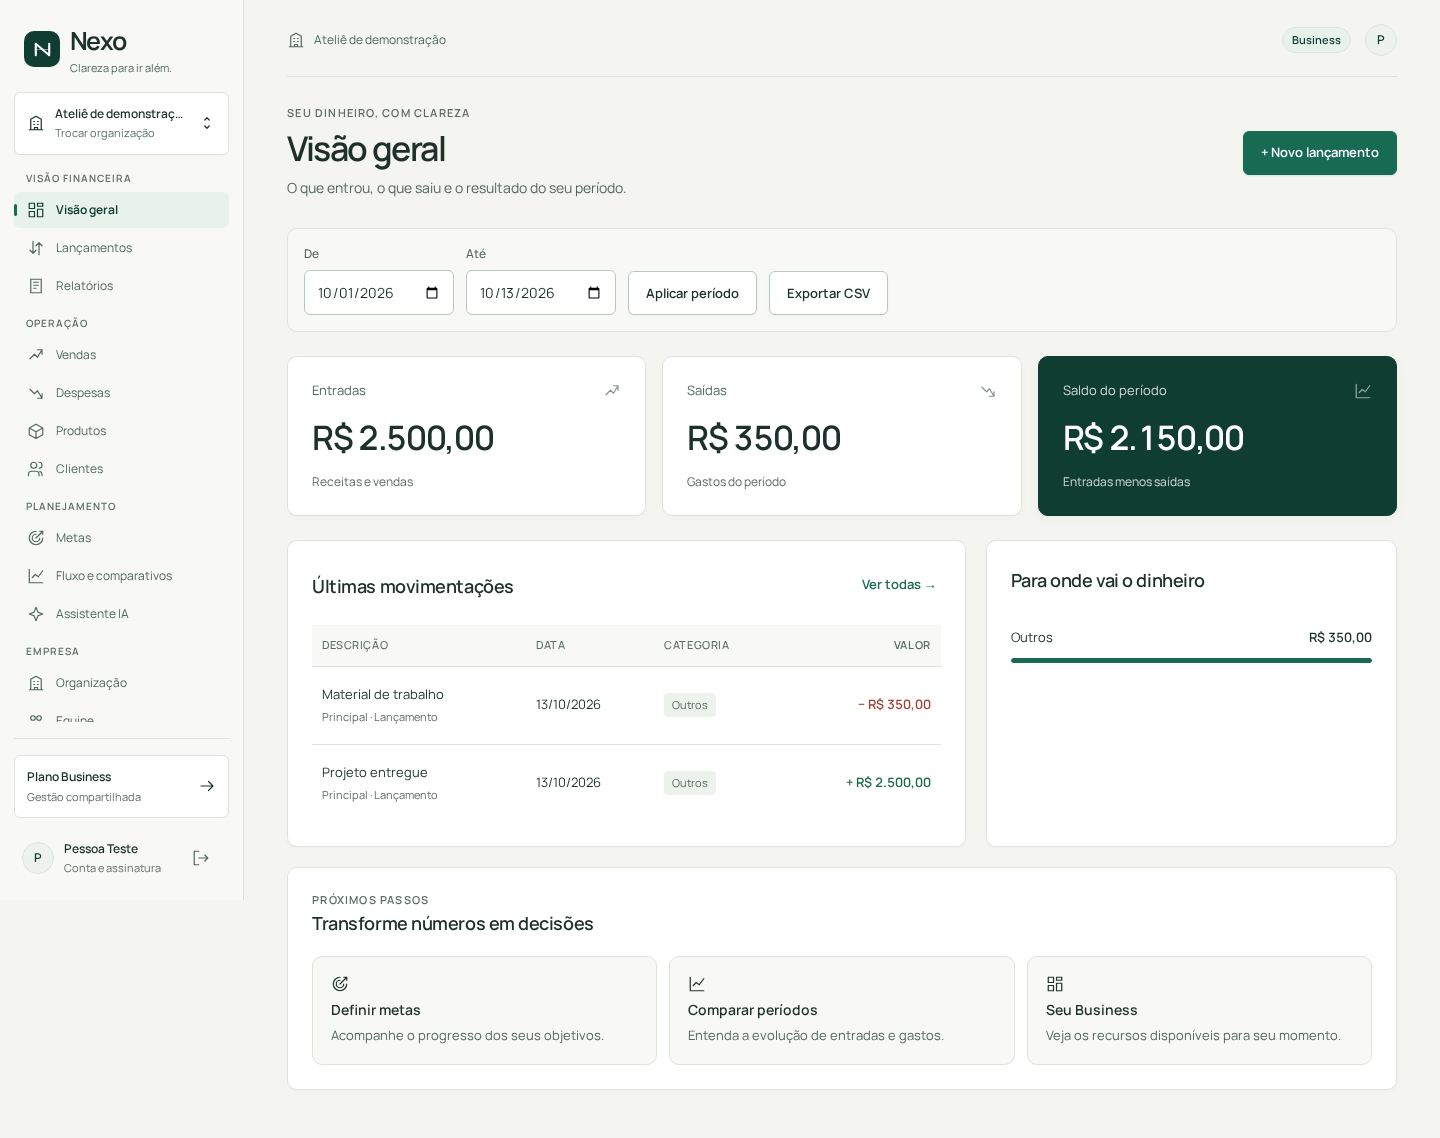
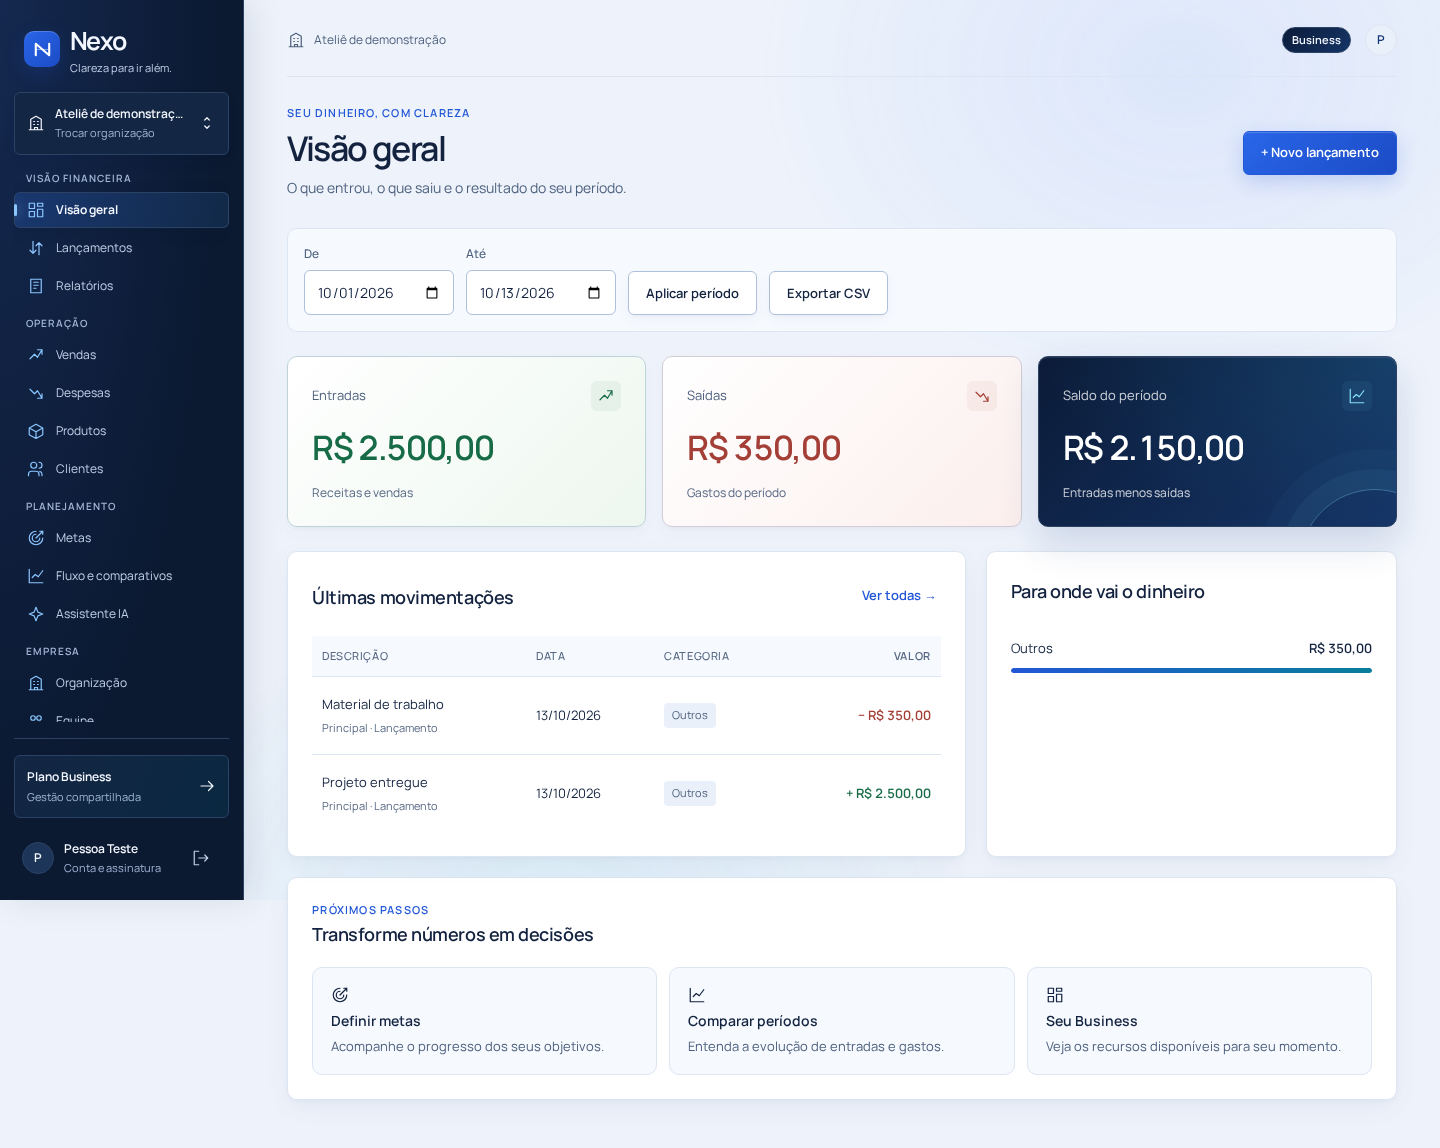
Finaliza polish AI-native e responsividade

diff --git a/frontend/components/Sidebar.tsx b/frontend/components/Sidebar.tsx
@@ -69,6 +69,7 @@ export function Sidebar(props: {
   const [aberto, setAberto] = useState(false);
   const [fechando, setFechando] = useState(false);
   const dialog = useRef<HTMLDialogElement>(null);
+  const desktop = useRef<HTMLElement>(null);
   const fecharTimer = useRef<ReturnType<typeof setTimeout> | null>(null);
   const toggle = useRef<HTMLButtonElement>(null);
 
@@ -108,6 +109,30 @@ export function Sidebar(props: {
       if (fecharTimer.current) clearTimeout(fecharTimer.current);
     };
   }, [aberto]);
+
+  useEffect(() => {
+    const menus = [desktop.current, aberto ? dialog.current : null]
+      .map((raiz) => raiz?.querySelector<HTMLElement>(".menu"))
+      .filter((menu): menu is HTMLElement => Boolean(menu));
+    const ajustar = () => {
+      for (const menu of menus) {
+        const atual = menu.querySelector<HTMLElement>('[aria-current="page"]');
+        if (!atual || !menu.clientHeight) continue;
+        const inicio =
+          atual.getBoundingClientRect().top -
+          menu.getBoundingClientRect().top +
+          menu.scrollTop;
+        const fim = inicio + atual.offsetHeight;
+        if (inicio < menu.scrollTop) menu.scrollTop = inicio;
+        else if (fim > menu.scrollTop + menu.clientHeight)
+          menu.scrollTop = fim - menu.clientHeight;
+      }
+    };
+    ajustar();
+    const observador = new ResizeObserver(ajustar);
+    menus.forEach((menu) => observador.observe(menu));
+    return () => observador.disconnect();
+  }, [pathname, aberto]);
 
   async function sair() {
     if (saindo) return;
@@ -267,7 +292,7 @@ export function Sidebar(props: {
           <Icone nome="menu" />
         </button>
       </div>
-      <aside className="sidebar">
+      <aside className="sidebar" ref={desktop}>
         <div className="sidebar-brand-row">{marca}</div>
         {navegacao}
       </aside>

diff --git a/frontend/tests/e2e/assinatura.spec.ts b/frontend/tests/e2e/assinatura.spec.ts
@@ -97,6 +97,10 @@ test("seis transições, persistência após reload e novo login", async ({
       page.locator('.sidebar a[href="/equipe"] .nav-lock'),
     ).toHaveCount(destino === "Business" ? 0 : 1);
     await page.locator(".workspace-bar .plan-pill").click();
+    await expect(page).toHaveURL(/\/conta\/assinatura$/);
+    await expect(
+      page.getByRole("heading", { name: destino, exact: true }),
+    ).toBeVisible();
     await page.reload();
     await expect(
       page.getByRole("heading", { name: destino, exact: true }),
@@ -540,6 +544,21 @@ test("finanças, Pro, Business, convite, documentos e downgrade preservam dados"
       ).toHaveCount(0);
       await semOverflow(page);
       await page.waitForTimeout(350);
+      if (largura > 900) {
+        const visivel = await page
+          .locator(".sidebar .menu")
+          .evaluate((menu) => {
+            const atual = menu.querySelector('[aria-current="page"]');
+            if (!atual) return true;
+            const area = menu.getBoundingClientRect(),
+              item = atual.getBoundingClientRect();
+            return item.top >= area.top - 1 && item.bottom <= area.bottom + 1;
+          });
+        expect(
+          visivel,
+          `Navegação ativa visível: ${rota} em ${largura}px`,
+        ).toBe(true);
+      }
       await page.screenshot({
         path: testInfo.outputPath(
           `${nome}-${rota.replaceAll("/", "") || "dashboard"}.png`,

diff --git a/docs/NEXO_AI_NATIVE.md b/docs/NEXO_AI_NATIVE.md
@@ -1,0 +1,114 @@
+# Nexo: assinatura em dev e identidade azul
+
+Etapa na branch `nexo-next-spring`, iniciada em `c6be20fc3b30c2fc0835d7e5d8f658f7ef75bf57`. O produto existente foi preservado: autenticação, recuperação, Resend, organizações, financeiro, regras dos planos e dados. Não houve deploy, merge, alteração de `main`, credenciais, migrations ou gateway real.
+
+## Por que aparecia “Troca indisponível”
+
+`PagamentoSimulado` exige perfil dev/test **e** a propriedade habilitada. O arquivo base usava `${PAGAMENTO_SIMULADO_ENABLED:false}` e não existia arquivo dev com outro padrão. Selecionar apenas dev mantinha o simulador ausente, e `PoliticaAssinatura` devolvia `simulacaoHabilitada=false`.
+
+A interface reunia esse caso e `podeGerenciar=false` em um único botão, sem explicar a diferença. A permissão de gerenciamento continua exclusiva do proprietário; administradores e membros não receberam acesso adicional.
+
+`application-dev.properties` agora habilita a simulação por padrão em dev. A flag false explícita continua desligando. A expressão `@Profile("(dev | test) & !prod & !production")` permaneceu: produção, inclusive combinada com dev/test e flag true, nunca cria o simulador. O startup informa somente habilitado/desabilitado, sem valores de configuração ou segredos.
+
+A API acrescenta `ambienteDesenvolvimento`. A interface distingue plano atual, permissão do proprietário, simulação desabilitada, checkout indisponível e erro de carregamento com nova tentativa. Orientação de variáveis só aparece em dev/test, sem produção ativa.
+
+## Como iniciar
+
+Com as variáveis do banco existente já configuradas, na raiz:
+
+```powershell
+$env:SPRING_PROFILES_ACTIVE = 'dev'
+mvn -f backend/pom.xml spring-boot:run
+```
+
+Ou em Bash:
+
+```bash
+SPRING_PROFILES_ACTIVE=dev mvn -f backend/pom.xml spring-boot:run
+```
+
+Em outro terminal:
+
+```bash
+cd frontend
+npm ci
+npm run dev
+```
+
+Não é necessário definir `PAGAMENTO_SIMULADO_ENABLED=true`. Se o terminal já tiver essa variável como false, remova-a para usar o padrão dev, ou defina true explicitamente. A raiz `.env` não é carregada automaticamente pelo Spring. Em test a flag continua explícita. Veja [DEVELOPMENT.md](../DEVELOPMENT.md).
+
+## Como testar os planos
+
+Entre como proprietário, abra **Planos**, escolha o destino, confira resumo/preço e confirme o cenário **Aprovado**. Downgrade exige o consentimento sobre limites e recursos. O plano atual não abre checkout.
+
+| Origem | Destino | Ação | Total simulado |
+| --- | --- | --- | --- |
+| Free | Pro | Upgrade | R$ 39,00 |
+| Free | Business | Upgrade | R$ 99,00 |
+| Pro | Business | Upgrade | R$ 99,00 |
+| Pro | Free | Downgrade | R$ 0,00 |
+| Business | Pro | Downgrade | R$ 39,00 |
+| Business | Free | Downgrade | R$ 0,00 |
+
+Os valores vêm do catálogo do backend, sem cobrança, rateio ou renovação real. O evento `nexo:workspace` atualiza assinatura, configuração, badge e locks; navegação interna não exige F5/logout. O plano permanece depois de refresh e novo login. A atualização transacional, idempotência e bloqueios por organização foram mantidos.
+
+Recusa, erro e cancelamento não promovem o plano. Erro permite nova tentativa da operação pendente. Expiração, operação desatualizada, chave reutilizada para outro destino, confirmação repetida e concorrência são cobertos no backend. O navegador também verifica clique duplo.
+
+Dados de metas, usuários e documentos permanecem depois de downgrade; o acesso aos recursos pagos é bloqueado pelo servidor e volta no upgrade correspondente. Free e Pro são individuais; Business permite até 10 usuários incluindo o proprietário.
+
+## Direção visual
+
+Fintech azul com identidade AI-native: navegação navy, azul elétrico, cyan, luz ambiente e superfícies com profundidade. Manrope local, textos, organização, componentes, semântica e mobile da revisão anterior foram preservados.
+
+O antigo `polish.css` foi estudado via `git show 95d456d2bc77c9d397968f4bb56f273405b05023:frontend/app/polish.css`. Foram recuperadas luzes radiais, navegação escura, seleção luminosa, gradientes nos botões e sensação de profundidade. Nenhum arquivo antigo foi restaurado.
+
+Elementos novos: órbitas da marca no login, halos no saldo, gradiente azul/cyan em progressos, Pro luminoso, Business navy/cyan, comparativo baseado nos recursos reais do catálogo e estados de checkout com identidade do destino. IA mantém disponibilidade real, com símbolo luminoso, superfície contextual e shimmer.
+
+Entrada de páginas/cards, badge de plano, botões, drawer, gráficos, progressos e confirmação têm movimento curto. Campos ambientais e a marca possuem movimento lento apenas em desktop. Reduced-motion desativa animações/transições, incluindo pseudo-elementos. Não há dependência nova, partículas JavaScript, canvas ou filtros animados. O blur está limitado à composição de login desktop e é desligado no mobile.
+
+CSS: `globals.css`, `navigation.css`, `auth.css`, `saas.css`, `checkout.css`, `product.css`, `ia.css`; novo `ambient.css`. Os tokens ficam centralizados, com tokens locais de contraste na navegação e no Business. Ajustes React foram pontuais: marca decorativa, identidade do plano, comparativo, cards financeiros e gradiente do gráfico.
+
+## Validação final
+
+- `mvn -f backend/pom.xml package`, com PostgreSQL exclusivo de teste e navegador habilitado: **231 testes backend, 0 falhas, 0 erros, 0 ignorados; JAR gerado**. Variáveis Resend sintéticas estavam presentes no terminal para verificar isolamento dos fixtures.
+- `npm test`: **30 passaram**. `npx --no-install tsc --noEmit`, `npm run lint` e `npm run build`: **passaram**, sem erros/avisos de lint.
+- Playwright: **14 cenários passaram**. Depois do ajuste final de navegação, os 14 foram repetidos e passaram, incluindo verificação do item ativo nas páginas e larguras desktop.
+- Revisão no Chromium com JAR normal em dev, sem flag de pagamento: login, downgrade inicial para Free, Free → Pro → Business → Pro → Free e retorno a Business, com refresh entre etapas, badge atualizado por navegação interna e dados preservados.
+- Pro: metas, análise/comparativos, exportação CSV (download real no navegador) e status/autorização da IA devolveram 200. Equipe e documentos continuaram em 403 antes de Business.
+- Business: equipe, convites, papéis, seleção/isolamento de organização e documentos passaram nas suítes. A revisão no JAR conferiu 2 membros e 2 documentos antes/depois do downgrade e reativação, sem perda.
+- Revisão visual final: **119 combinações de página/largura**, em 1440, 1280, 1024, 768, 430, 390 e 360 px, sem overflow horizontal e com Manrope carregada. Login e demais fluxos públicos também foram conferidos nas sete larguras pelo Playwright.
+- Auditoria adicional: **47 verificações A/AA com axe**, incluindo drawer aberto, sem violações detectadas. Isso não substitui uma avaliação humana completa de acessibilidade.
+- Teclado, foco do drawer, Escape, gráfico acessível e reduced-motion passaram. A inspeção humana das capturas identificou o item ativo da sidebar parcialmente fora da área rolável em telas baixas; o ajuste usa rolagem apenas no menu e um observador de dimensões, com cleanup. Foi verificado também ao reduzir a altura para 600/500 px, sem rolar o conteúdo principal.
+- `git diff --check`: passou.
+
+Houve duas falhas intermediárias de teste, corrigidas: a conta reutilizada já estava Pro, e um reload interrompia a navegação interna antes do término. O teste de mensagens usa agora conta própria; o teste de persistência espera a URL e o conteúdo antes do refresh. Nenhuma asserção funcional foi removida.
+
+## Capturas preservadas no Git
+
+Todas usam contas e dados sintéticos do banco exclusivo de teste, sem credenciais, códigos ou links privados de convite.
+
+- [Login desktop](design/login-desktop.png)
+- [Dashboard desktop](design/dashboard-desktop.png)
+- [Dashboard mobile](design/dashboard-mobile.png)
+- [Planos](design/planos-desktop.png)
+- [Checkout Free → Pro](design/checkout-desktop.png)
+- [Pro ativo](design/pro-desktop.png)
+- [Business / equipe](design/business-equipe-desktop.png)
+- [IA](design/ia-desktop.png)
+- [Metas](design/metas-desktop.png)
+- [Fluxo de caixa](design/fluxo-desktop.png)
+- [Documentos](design/documentos-desktop.png)
+
+## Limitações reais
+
+Pagamento real, gateway, webhook, cobrança e renovação continuam fora desta etapa. Resend externo e Gemini real não foram chamados nesta máquina; testes de transporte usam servidores/capturadores locais e o navegador usa mensagens sintéticas. A IA do JAR de revisão está sem chave, e sua indisponibilidade é mostrada corretamente. Os estados de pergunta/resposta foram validados com fixture explicitamente restrito ao navegador de teste, sem substituir o serviço na aplicação.
+
+Não foram adicionadas dependências nem alteradas credenciais ou regras de produção. Não existe pendência de troca de plano para o proprietário em dev corretamente configurado. Não há overflow ou falha visual conhecida nas larguras verificadas; outros navegadores/dispositivos físicos e métricas de Core Web Vitals em uso real não foram medidos nesta máquina.
+
+## Checkpoints preservados
+
+- `f710d7b0d8668452b3891bc41c1abcaf4345a594` — Corrige assinatura simulada e troca de planos.
+- `d06df0c9e68c3a574ba50377ddde80a7551aa4c3` — Recupera identidade azul e atmosfera visual do Nexo.
+- `796d57f9f494008050fd3d8d7cd5e211edafefe2` — Refina dashboard, planos e microinterações.
+
+Todos foram enviados exclusivamente a `nexo-next-spring` antes da validação final, com frontend compilado, typecheck/lint/testes e revisão dos respectivos blocos. O commit final inclui o acabamento, evidências e relatório atualizado.

diff --git a/docs/DESIGN.md b/docs/DESIGN.md
@@ -47,7 +47,7 @@ Adicionado `@axe-core/playwright@4.13.0` apenas como dependência de desenvolvim
 
 TypeScript, lint, 25 testes unitários e build de todas as rotas passaram antes deste checkpoint. A suíte ampliada e a revisão final das sete larguras continuam no bloco final.
 
-## Entrega e validação final
+## Validação da passagem anterior
 
 - `npm test`: 25 testes passaram, sem falhas ou ignorados.
 - `npx --no-install tsc --noEmit`: passou.
@@ -181,3 +181,14 @@ Login mantém os textos e a composição editorial, com superfície translúcida
 Nenhuma dependência foi adicionada nesta passagem. Gradientes e sombras são estáticos; movimentos ambientais e shimmer animam transform/opacity. Reduced-motion desativa tudo, inclusive pseudo-elementos. O teste de navegador também verifica atualização do badge e dos locks por navegação interna, sem F5/logout, após cada transição.
 
 Checkpoint dos módulos: 30 testes frontend, TypeScript, lint e build passaram. Segunda inspeção no Chromium de login, dashboard, planos, checkout, metas, fluxo de caixa, equipe e IA em 1440/390 px: 16 verificações A/AA sem violações detectadas ou overflow. As screenshots foram abertas para revisar leitura, profundidade, composição e comparação de planos no celular. A passagem completa das sete larguras e a suíte backend/navegador continuam no bloco final.
+
+
+## Validação final da identidade azul
+
+Relatório desta etapa: [NEXO_AI_NATIVE.md](NEXO_AI_NATIVE.md). Suíte completa: 231 testes backend passaram, JAR gerado e 14 cenários Playwright passaram. Os 14 foram repetidos depois do ajuste final da navegação e passaram. Frontend: 30 testes, typecheck, lint sem avisos e build passaram.
+
+A revisão no JAR em dev verificou as seis transições de plano, persistência após refresh, atualização de badge/locks sem F5 e restauração de 2 membros/2 documentos depois do downgrade. O comparativo usa o catálogo real; IA sem chave fica explicitamente indisponível.
+
+Passagem final: 119 combinações de página/largura sem overflow; 47 verificações adicionais A/AA sem violações detectadas, incluindo drawer. Capturas abertas para revisão em desktop, notebook, tablet e celular. O item ativo da navegação agora é mantido visível dentro do menu, inclusive ao redimensionar a janela; nenhuma rolagem do conteúdo principal é disparada. Onze capturas de referência estão preservadas em `docs/design` e listadas no relatório.
+
+Os testes intermediários de mensagens e navegação foram estabilizados com conta independente e espera explícita antes de refresh. Nenhum teste foi removido. Nenhuma dependência nova, mudança em autenticação/e-mail, migration, merge ou deploy foi introduzida nesta passagem.

diff --git a/README.md b/README.md
@@ -26,3 +26,5 @@ Nunca versione credenciais, arquivos `.env` reais ou backups de dados pessoais.
 Free, Pro e Business são gerenciados pelo backend, com checkout interno, upgrade, downgrade, cancelamento e histórico por organização. O perfil `dev` habilita o simulador por padrão; `PAGAMENTO_SIMULADO_ENABLED=false` o desliga. Em `test`, a flag continua explícita. Os perfis `prod`/`production`, inclusive misturados com dev/test, sempre impedem a simulação. Não há cobranças reais nem coleta de cartão ou dados bancários.
 
 Aplique a migração incremental `10_assinaturas_simuladas.sql` depois da `09`. Consulte [docs/ASSINATURAS.md](docs/ASSINATURAS.md) para regras, endpoints, testes e pendências.
+
+A etapa de assinatura em dev e identidade azul, com testes e capturas, está documentada em [docs/NEXO_AI_NATIVE.md](docs/NEXO_AI_NATIVE.md).
